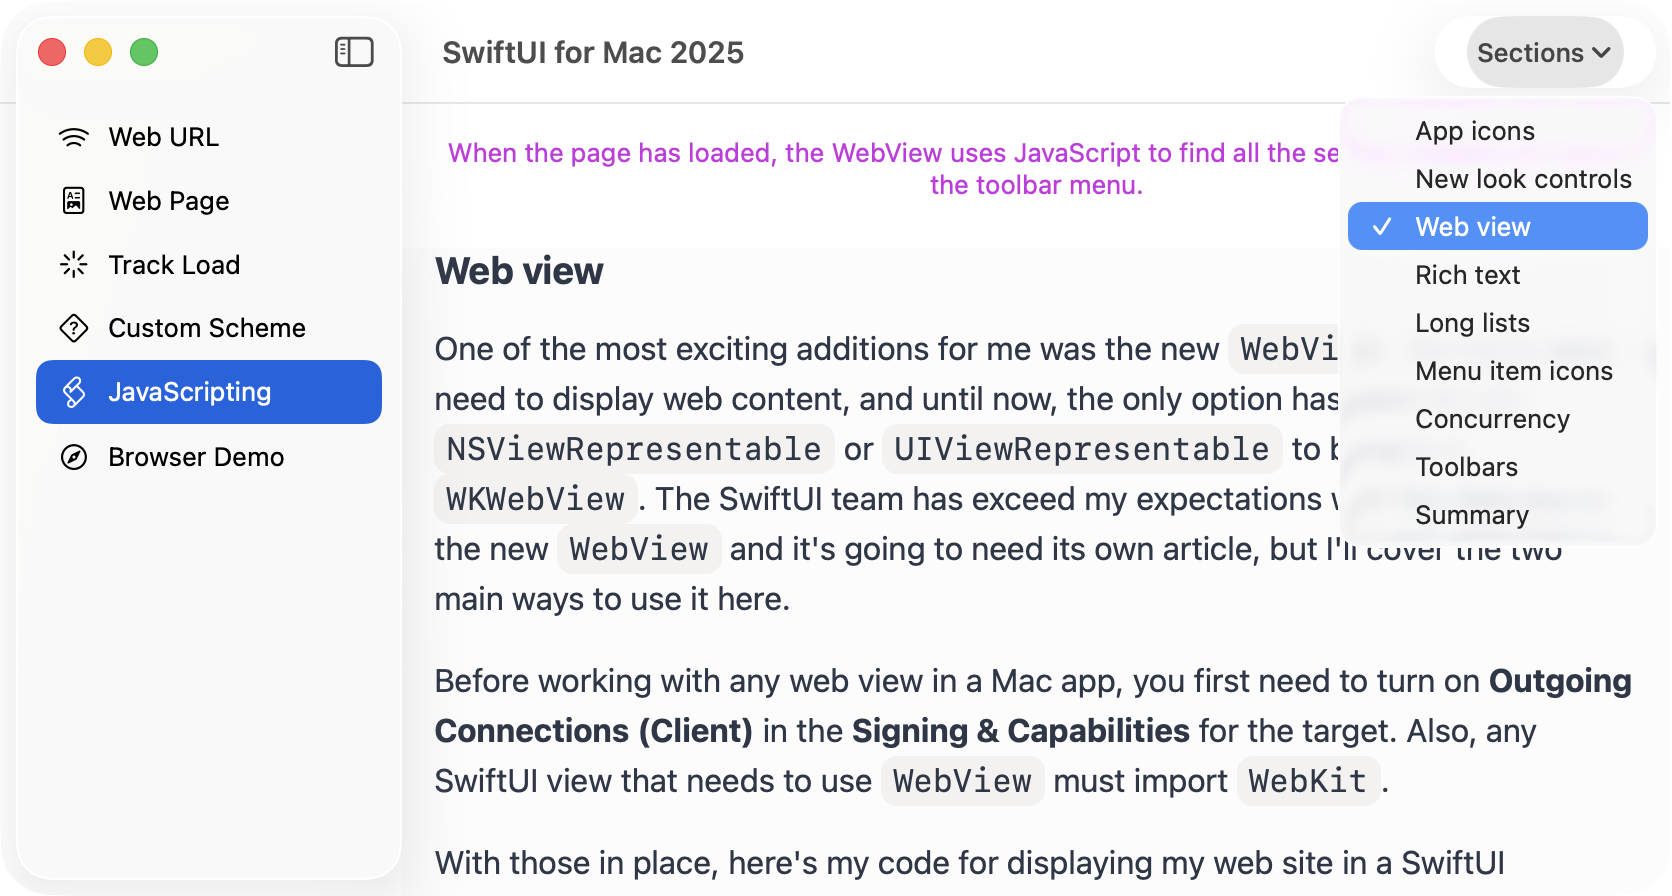
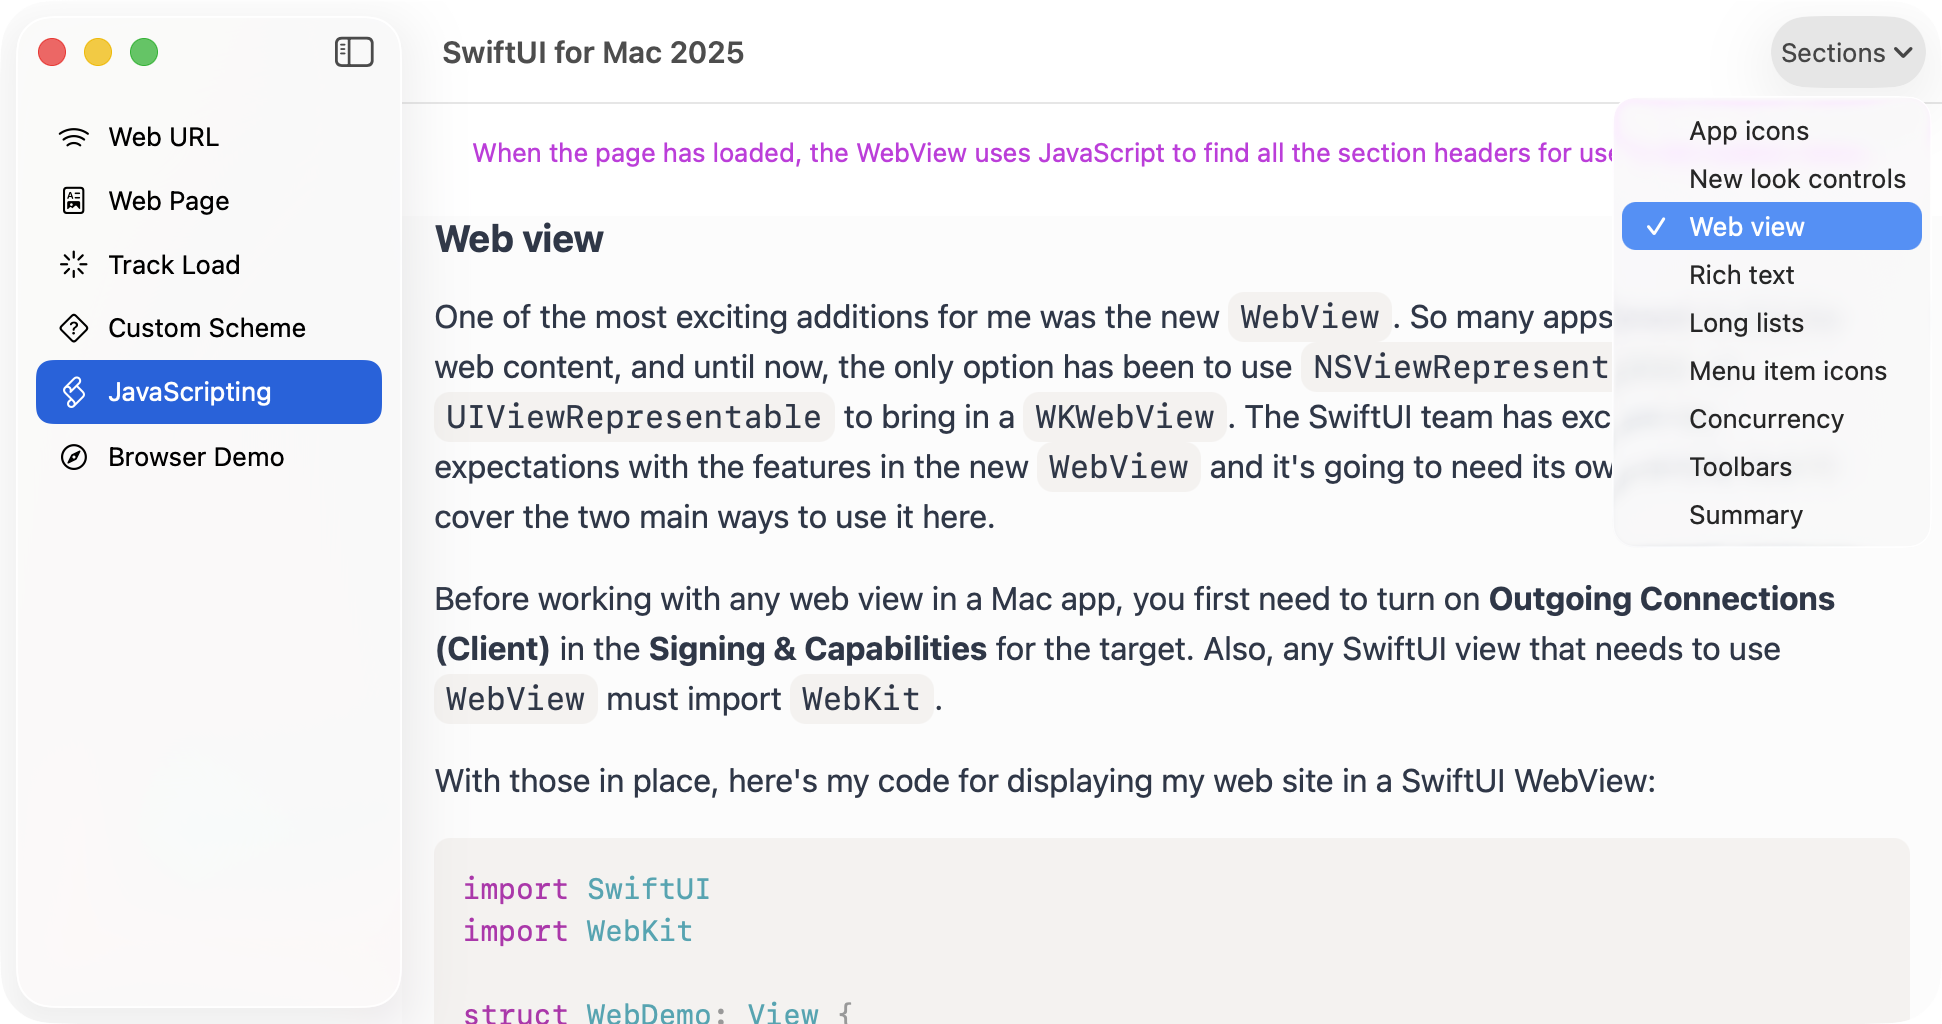
WebView post

diff --git a/src/post/2025/swiftui-webview.md b/src/post/2025/swiftui-webview.md
@@ -6,13 +6,13 @@ draft: true
 categories: ['Swift', 'SwiftUI', 'WebView']
 ---
 
-At WWDC 2025, Apple announced that SwiftUI would now have it's own `WebView`. I touched on this briefly in my [SwiftUI for Mac 2025][1] article, but this view has a lot of features that I wanted to explore and document.
+At WWDC 2025, Apple announced that SwiftUI would now have its own `WebView`. I touched on this briefly in my [SwiftUI for Mac 2025][1] article, but this view has a lot of features that I wanted to explore and document.
 
-My primary source was the WWDC video: [Meet WebKit for SwiftUI][2] but as usual, there is a lot of detail hidden in the video and some of the sample code doesn't work in the later betas. I'm currently using macOS Tahoe 26 beta 6 and Xcode 26 beta 5.
+My primary source was the WWDC video: [Meet WebKit for SwiftUI][2] but as usual, there is a lot of detail hidden in the video and some of the sample code doesn't work in the later betas. I'm currently using macOS Tahoe 26 beta 7 and Xcode 26 beta 6.
 
 <!--more-->
 
-I've written a sample app demonstrating various aspects of the new `WebView`, which you can download from [GitHub][3]. This will let you follow along as I describe the various options. The numbered sections in this article correspond to the numbered view files in the project.
+I've written a sample app demonstrating various aspects of the new `WebView`, which you can download from [GitHub][3]. This will let you follow along with my descriptions below. The numbered sections in this article correspond to the files in the **WebView Samples** folder of the project.
 
 ### 1. WebURLView
 
@@ -24,11 +24,11 @@ WebView(url: URL(string: "https://www.swift.org"))
 
 The URL is optional, so there's no need to force-unwrap it.
 
-This is simple but doesn't allow any progress tracking or customization so I think I would rarely use this.
+This is easy to use but doesn't allow any progress tracking or customization so I think I would rarely choose this option.
 
 ### 2. WebPageLoad
 
-In this example, I create a `WebPage` and use it to populate the `WebView`.
+In the next example, I created a `WebPage` and used it to populate the `WebView`.
 
 Toolbar buttons switch between loading an online page:
 
@@ -44,13 +44,15 @@ Or loading a local HTML string:
 page.load(html: html, baseURL: Bundle.main.resourceURL!)
 ```
 
-In Apple's examples, they always use `URL(string: "about:blank")!` for the `baseURL`, but using `Bundle.main.resourceURL!` lets me include a link to a stylesheet that's inside the app bundle.
+In Apple's examples, they always use `URL(string: "about:blank")!` for the `baseURL`, but using `Bundle.main.resourceURL!` lets me include a link to a stylesheet that's inside the app bundle:
+
+![Web page showing local HTML][i1]
 
 ### 3. TrackLoad
 
 In the WWDC video, they demonstrated how to track the navigation events. The code in the video does not work - it doesn't even compile. But after some trial and error, I worked out how to track these events.
 
-When the view first appears, a task starts monitoring the events:
+When the view first appears, a `task` starts monitoring the events:
 
 ```swift
 .task {
@@ -93,11 +95,13 @@ func startObservingEvents() async {
 }
 ```
 
-This detects the _good_ `WebPage.NavigationEvent` types: `startedProvisionalNavigation`, `receivedServerRedirect`, `committed` and `finished`. Each of the possible `WebPage.NavigationError` events is also monitored.
+This detects the `WebPage.NavigationEvent` types: `startedProvisionalNavigation`, `receivedServerRedirect`, `committed` and `finished`. Each of the possible thrown `WebPage.NavigationError` events is also monitored.
 
 This seems like overkill for most use cases, but this code shows how to set it up. The key is that `page.navigations` is an `AsyncSequence<WebPage.NavigationEvent, any Error>`.
 
-As an added extra, this sample uses the value of `page.isLoading` to show or hide a `ProgressView`. This is what I'll mostly use for tracking loads and providing user feedback during a load. If you want to get fancy, you can provide the `ProgressView` with a `value`:
+![Tracking events][i2]
+
+As an added extra, this example uses the value of `page.isLoading` to show or hide a `ProgressView`. This is what I'll mostly use for tracking loads and providing user feedback during a load. If you want to get fancy, you can provide the `ProgressView` with a `value`:
 
 ```swift
 if page.isLoading {
@@ -105,7 +109,7 @@ if page.isLoading {
 }
 ```
 
-This changes it from an indeterminte spinner to a progress bar.
+This changes it from an indeterminate spinner to a progress bar.
 
 ### 4. CustomScheme
 
@@ -124,7 +128,7 @@ page = WebPage(
 )
 ```
 
-In my scheme handler struct, I try to read the relevant file from the app bundle. If the file exists, I use its data to first create a `URLResponse` and then to supply data, emitting these and any errors in an `AsyncSequence`.
+My scheme handler struct conforms to `URLSchemeHandler` and has the required `reply(for:)` method to process the request. It tries to read the relevant file from the app bundle and if the file exists, uses its data to create a `URLResponse` and then to emit the response and the file data or any error in an `AsyncSequence`.
 
 ```swift
 struct ManPageSchemeHandler: URLSchemeHandler {
@@ -153,9 +157,11 @@ struct ManPageSchemeHandler: URLSchemeHandler {
 }
 ```
 
-For example, when I try to open `manpage://cal.html`, this reads the cal.html file from the bundle, uses it's URL and length to supply the URLResponse and then yields the file data.
+For example, when I try to open `manpage://cal.html`, this reads the **cal.html** file from the bundle, uses it's URL and length to create a `URLResponse` and then yields the response and the file data before finishing the stream.
 
-The other part of this is using `WebPage.NavigationDeciding` to work out what to do with other links, using different schemes. Back in the initial setup phase, I created a decider and provided it to the WebPage with the configuration.
+If there's a problem with the file, the stream finishes by throwing an error.
+
+This example also uses `WebPage.NavigationDeciding` to work out what to do with other schemes. Back in the initial setup phase, I created a decider and provided it to the `WebPage`, along with the configuration.
 
 ```swift
 let navigationDecider = NavigationDecider()
@@ -166,12 +172,13 @@ page = WebPage(
 )
 ```
 
-The decider checks the supplied URL and works out what to do with it:
+My decider class conforms to `WebPage.NavigationDeciding` and has a `decidePolicy` method that checks the supplied URL and works out what to do with it:
 
 ```swift
 class NavigationDecider: WebPage.NavigationDeciding {
   func decidePolicy(
-    for action: WebPage.NavigationAction, preferences: inout WebPage.NavigationPreferences
+    for action: WebPage.NavigationAction, 
+    preferences: inout WebPage.NavigationPreferences
   ) async -> WKNavigationActionPolicy {
     guard let url = action.request.url else {
       print("No URL supplied for decision")
@@ -190,11 +197,13 @@ class NavigationDecider: WebPage.NavigationDeciding {
 }
 ```
 
-As you can see, I first check that the `WebPage.NavigationAction` has a request with a URL. I can't imagine when this would ever be nil, but it's optional, so I check and cancel the navigation if it's missing. Then I test for my custom scheme and allow those pages to load. In this example, all other URLs open in the default browser so I use cancel to stop them opening in the `WebView`. To test this, open one of the man pages using a toolbar button and scroll to the end of the page where I added an external link.
+As you can see, I first check that the `WebPage.NavigationAction` has a request with a URL. I can't imagine when this would ever be nil, but it's optional, so I check and cancel the navigation if it's missing. Then I test for my custom scheme and allow those pages to load. In this example, all other URLs open in the default browser so I return `cancel` to stop them opening in the `WebView`. To test this, open one of the man pages using a toolbar button and scroll to the end of the page where I added an external link.
 
-This sample demonstrates two other `WebView` features:
+**Note**: In macOS Tahoe 26 beta 7 and Xcode 26 beta 6, this external navigation prints what appears to be a crash log in the console, but the app does not crash.
 
-By default, a `WebView` allows bouncing so the page appears to scroll sideways even though it all fits. This is really obvious is you use a trackpad and swipe sideways. To turn off this behavior, add this:
+This example demonstrates two other `WebView` features:
+
+By default, a `WebView` allows bouncing so the page appears to scroll sideways even though it all fits. This is really obvious is you use a track pad and swipe sideways. To turn off this behavior, add this:
 
 ```swift
 .scrollBounceBehavior(.basedOnSize, axes: [.horizontal])
@@ -214,55 +223,148 @@ WebView(page)
   .findNavigator(isPresented: $findNavigatorIsPresented)
 ```
 
-I added a toolbar button to toggle `findNavigatorIsPresented` for showing and hiding the interface. I have included the `replaceDisabled(true)` modifier but it doesn't work, at least not yet or maybe only not in a `WebView`. The modifier doesn't stop the replace interface from appearing, but replacing doesn't actually work. Maybe this is how it is supposed to work, but I would prefer this to hide the replace button completely.
+I added a toolbar button to toggle `findNavigatorIsPresented` for showing and hiding the interface. I have included the `replaceDisabled(true)` modifier but it doesn't work in a `WebView`. The modifier doesn't stop the replace interface from appearing, but replacing doesn't actually work:
+
+![Find navigator][i3]
+
+Interestingly, in a `TextEditor`, it is possible to hide the replace button by adding the `replaceDisabled(true)` modifier, but the number of matches doesn't appear.
 
 ### 5. JavaScripting
 
-SwiftUI's WebView provides an asynchronous method for calling Javascript on the page. In this example, I load a page from my web site and once it's loaded, I send a JavaScript command to gather all the H3 headers so I can make them into a navigation menu in the toolbar.
+SwiftUI's WebView provides an asynchronous method for calling Javascript on the page. In this example, I load a page from my web site and once it's loaded, I send a JavaScript command to gather all the **H3** headers so I can make them into a navigation menu in the toolbar.
 
-While I could use navigation event tracking to detect when the page has finished loading, instead I using `Task` with a sleep loop to wait until `page.isLoading` becomes false:
+While I could use navigation event tracking to detect when the page has finished loading, instead I use a loop containing `Task.sleep` to wait until `page.isLoading` becomes false:
 
+```swift
+func loadPage() {
+  Task {
+    sections = []
+    let url = URL(string: pageAddress)!
+    page.load(URLRequest(url: url))
+
+    while page.isLoading {
+      try? await Task.sleep(for: .milliseconds(100))
+    }
+    listHeaders()
+  }
+}
+```
 
 Once I have the list of headers, I add them to a toolbar menu for jumping around the page:
 
+![JavaScript populated sections menu][i4]
 
-In the WWDC video, the presenter demonstrated a similar technique, although without sharing the actual JavaScript. When testing, I found it easier to write my JavaScript functions outside Swift, so the project includes my test.js file.
+In the WWDC video, the presenter demonstrated a similar technique, although without sharing the actual JavaScript. When testing, I found it easier to write and debug my JavaScript functions directly in the browser, so the project repo includes my **jsTests.js** file.
 
-Another interesting demo was detecting the scroll and setting the selected section to match. I started by putting the sections into a toolbar menu with a selection parameter. When the selected section changed, I scrolled the web view to that section.
+The methods that use JavaScript are gathered into an extension on the `JavaScripting` view. I start by using multi-line strings to create the scripts, interpolating data from the view as needed. Then a `Task` uses `try await page.callJavaScript(js)` to call the JavaScript and get the result.
 
-The problem with this was that when I started detecting the scroll, it also set the selected section, which scrolled to the top of the current section every time. To get around this, I made the toolbar menu a set of buttons with scroll actions. They did not set the selected section, but their titles showed a leading checkmark for the selected section. The scroll detector worked out the visible section and adjusted this display without altering the scroll.
+The result is of type `Any?` so then I try to cast it into the type I want. Here's the full method for listing the section headers:
 
-I had an issue with the longer section names which were truncated when another section was checked. For some reason, this was fixed by using string interpolation instead of the string itself!
+```swift
+func listHeaders() {
+  let js = """
+    const headers = document.querySelectorAll("\(headerElement)")
+    return [...headers].map(header => ({
+      id: header.textContent.replaceAll(" ", "-").toLowerCase(),
+      title: header.textContent
+    }))
+    """
 
-The scripts varied in what parameters they needed and what they returned. For parameters, you supply a `[String: Any]` dictionary with the keys being the JavaScript variable name and the values being the data sent.
+  Task {
+    do {
+      let jsResult = try await page.callJavaScript(js)
+      if let headers = jsResult as? [[String: Any]] {
+        let pageSections = headers.map {
+          SectionLink(jsEntry: $0)
+        }
+        await MainActor.run {
+          sections = pageSections
+        }
+      }
+    } catch {
+      print(error)
+    }
+  }
+}
+```
 
-The return data type is `Any?` so can be cast or mapped into the correct type for use in the Swift code.
+`SectionLink` is a struct that contains the section title and ID and has a custom `init` that takes a `[String: Any]` dictionary.
+
+In this case, I interpolated `headerElement` directly into the JavaScript string, but you can also pass it to `callJavaScript` using the `arguments` parameter. Here's how I pass in a title for working out how to scroll to its section:
+
+```swift
+let result = try await page.callJavaScript(
+  js,
+  arguments: ["sectionTitle": section.title]
+)
+```
+
+The JavaScript now has access to the `sectionTitle` variable, which contains the title of the section to scroll to. This returns the vertical offset of the section, which I then use to scroll the web view to that position.
+
+Managing the web view's scrolling has several components. First, an `@State` property holds a `ScrollPosition`.
+
+```swift
+@State private var currentScroll = ScrollPosition()
+```
+
+Next, bind this property to the `WebView` using `webViewScrollPosition`:
+
+```swift
+WebView(page)
+  .webViewScrollPosition($currentScroll)
+```
+
+Finally, when the JavaScript returns a value for the section offset, use this property to adjust the scroll:
+
+```swift
+withAnimation(.easeInOut(duration: 0.25)) {
+  currentScroll.scrollTo(y: offset)
+}
+```
+
+The animation makes the scroll look better, instead of jumping suddenly to the new location.
+
+Another interesting part of the WWDC demo was detecting the scroll and setting the selected section to match. I had started by putting the sections into a `Picker` with a selection parameter. When the selected section changed, I scrolled the web view to that section.
+
+That worked fine until I started detecting the scroll, which also set the selected section, which reset the scroll to the top of the current section every time. To get around this, I made the toolbar item into a menu with a set of buttons with scroll actions. They did not set the selected section, but their titles showed a leading checkmark for the selected section. The scroll detector worked out the visible section and set the selected section without altering the scroll.
+
+To monitor the scroll position, I added this modifier to the `WebView`:
+
+```swift
+.webViewOnScrollGeometryChange(for: CGFloat.self, of: \.contentOffset.y) { _, newValue in
+  adjustSelectionTo(scrollPosition: newValue)
+}
+```
+
+The `adjustSelectionTo(scrollPosition:)` method uses another chunk of JavaScript to work out which section is now visible and the result of this is used to update the selected section property.
+
+I had an issue with the longer section names which were truncated when another section was checked. This was fixed by using string interpolation instead of the string itself when showing the title without the checkmark. I'm not sure why this works, but I assume string interpolation forces the view to re-calculate its width each time.
 
 ### 6. Browser
 
-The final example attempts to emulate a full browser. There is a URL entry field at the top and a WebView below it.
+The final example attempts to emulate a browser. There is a URL entry `TextField` at the top and a `WebView` below it.
 
-As a side-note, why can't I use a URL formatter on a `TextField`? I've tried using the sample from the Swift definition file but it doesn't compile.
+The new part here is tracking the browser history and adding back and forward buttons. These use the `page.backForwardList` to create their menus with a primary action that goes back one or forward one.
 
-The new section is tracking the browser history and adding back and forward buttons. These use the `page.backForwardList` to create their menus with a default action that goes back one or forward one.
+![Browser history][i5]
 
-At first, I assumed that `page.load()` required a URL, but when a typo worked, I realized that I could ask it to load a `WebPage.BackForwardList.Item` directly.
+At first, I assumed that `page.load()` required a `URL` or a `URLRequest`, but then I realized that I could also ask it to load a `WebPage.BackForwardList.Item` directly.
 
-I had a problem with the back and forward menus which made me think that the list was not updating correctly. After re-purposing the refresh button to list the history items, I worked out that the menus were not being refreshed when the data changed.
+I had a problem with the back and forward menus which made me think that the history was not updating correctly. After temporarily re-purposing the refresh button to list the history items, I worked out that history list was correct but the menus were not being updated when the list changed.
 
-To solve this, I needed to add an `id` to each menu. I needed something hashable that changed on every load, so I chose `page.isLoaded`. I realize that this is updating the menus twice as often as needed, but it works and I don't think it is too inefficient.
+To solve this, I added an `id` to each menu that would trigger an update when its value changed. I needed something hashable that changed on every load, so I chose `page.isLoading`. I realize that this is updating the menus twice as often as needed, but it works and I don't think it is too inefficient.
 
 The other feature here is the refresh button. If you've done any web dev, you'll be familiar with the technique of reloading from origin so that you get all the latest files instead of any cached versions. Hold down the Option key to switch the refresh button to reload from origin mode.
 
-The only issue that I haven't tackled is opening links in new tabs or windows. On this site, all external links are setbto open in a new tab and they just fail to load. I wonder is this something that a navigation decider could handle?
+The only issue that I haven't tackled is opening links in new tabs or windows. On this site, all external links are set to open in a new tab and they just fail to load. I wonder is this something that a navigation decider could handle?
 
 ### Summary
 
 After waiting several years for this view to arrive, I am not disappointed. The SwiftUI team have done a great job of integrating SwiftUI and WebKit with some modernizations that WebKit is still missing.
 
-For my personal use, I'll be updating Man Reader to use this web view. The find-in-page, custom scheme handling and scroll detection will be great. I also have to re-write the sectioms in my books that use `WKWebView` but that will be part of the general macOS/Xcode 26 update cycle.
+For my personal use, I'll be updating Man Reader to use this web view. The find-in-page, custom scheme handling and scroll detection will be great. I also have to re-write the sections in my books that use `WKWebView` but that will be part of the general macOS/Xcode 26 update cycle.
 
-If you have any feedback about this article, please contact me using one of the links below or through the [Contact][contact] page. And if you found this useful, please [buy me a coffee][kofi].
+All the sample code from this article is on [GitHub][3] so I encourage you to download it and see how it works. Make changes, and please let me know if you find any errors or can suggest improvements using one of the links below or through the [Contact][contact] page. And if you found this article useful, please [buy me a coffee][kofi].
 
 [contact]: /contact/
 [kofi]: https://ko-fi.com/trozware
@@ -270,3 +372,8 @@ If you have any feedback about this article, please contact me using one of the 
 [2]: https://developer.apple.com/videos/play/wwdc2025/231
 [3]: https://github.com/trozware/swiftui-webview
 [4]: /manreader/
+[i1]: /images/2025/web_page.png
+[i2]: /images/2025/web_track.png
+[i3]: /images/2025/web_find.png
+[i4]: /images/2025/web_js.png
+[i5]: /images/2025/web_browser.png
